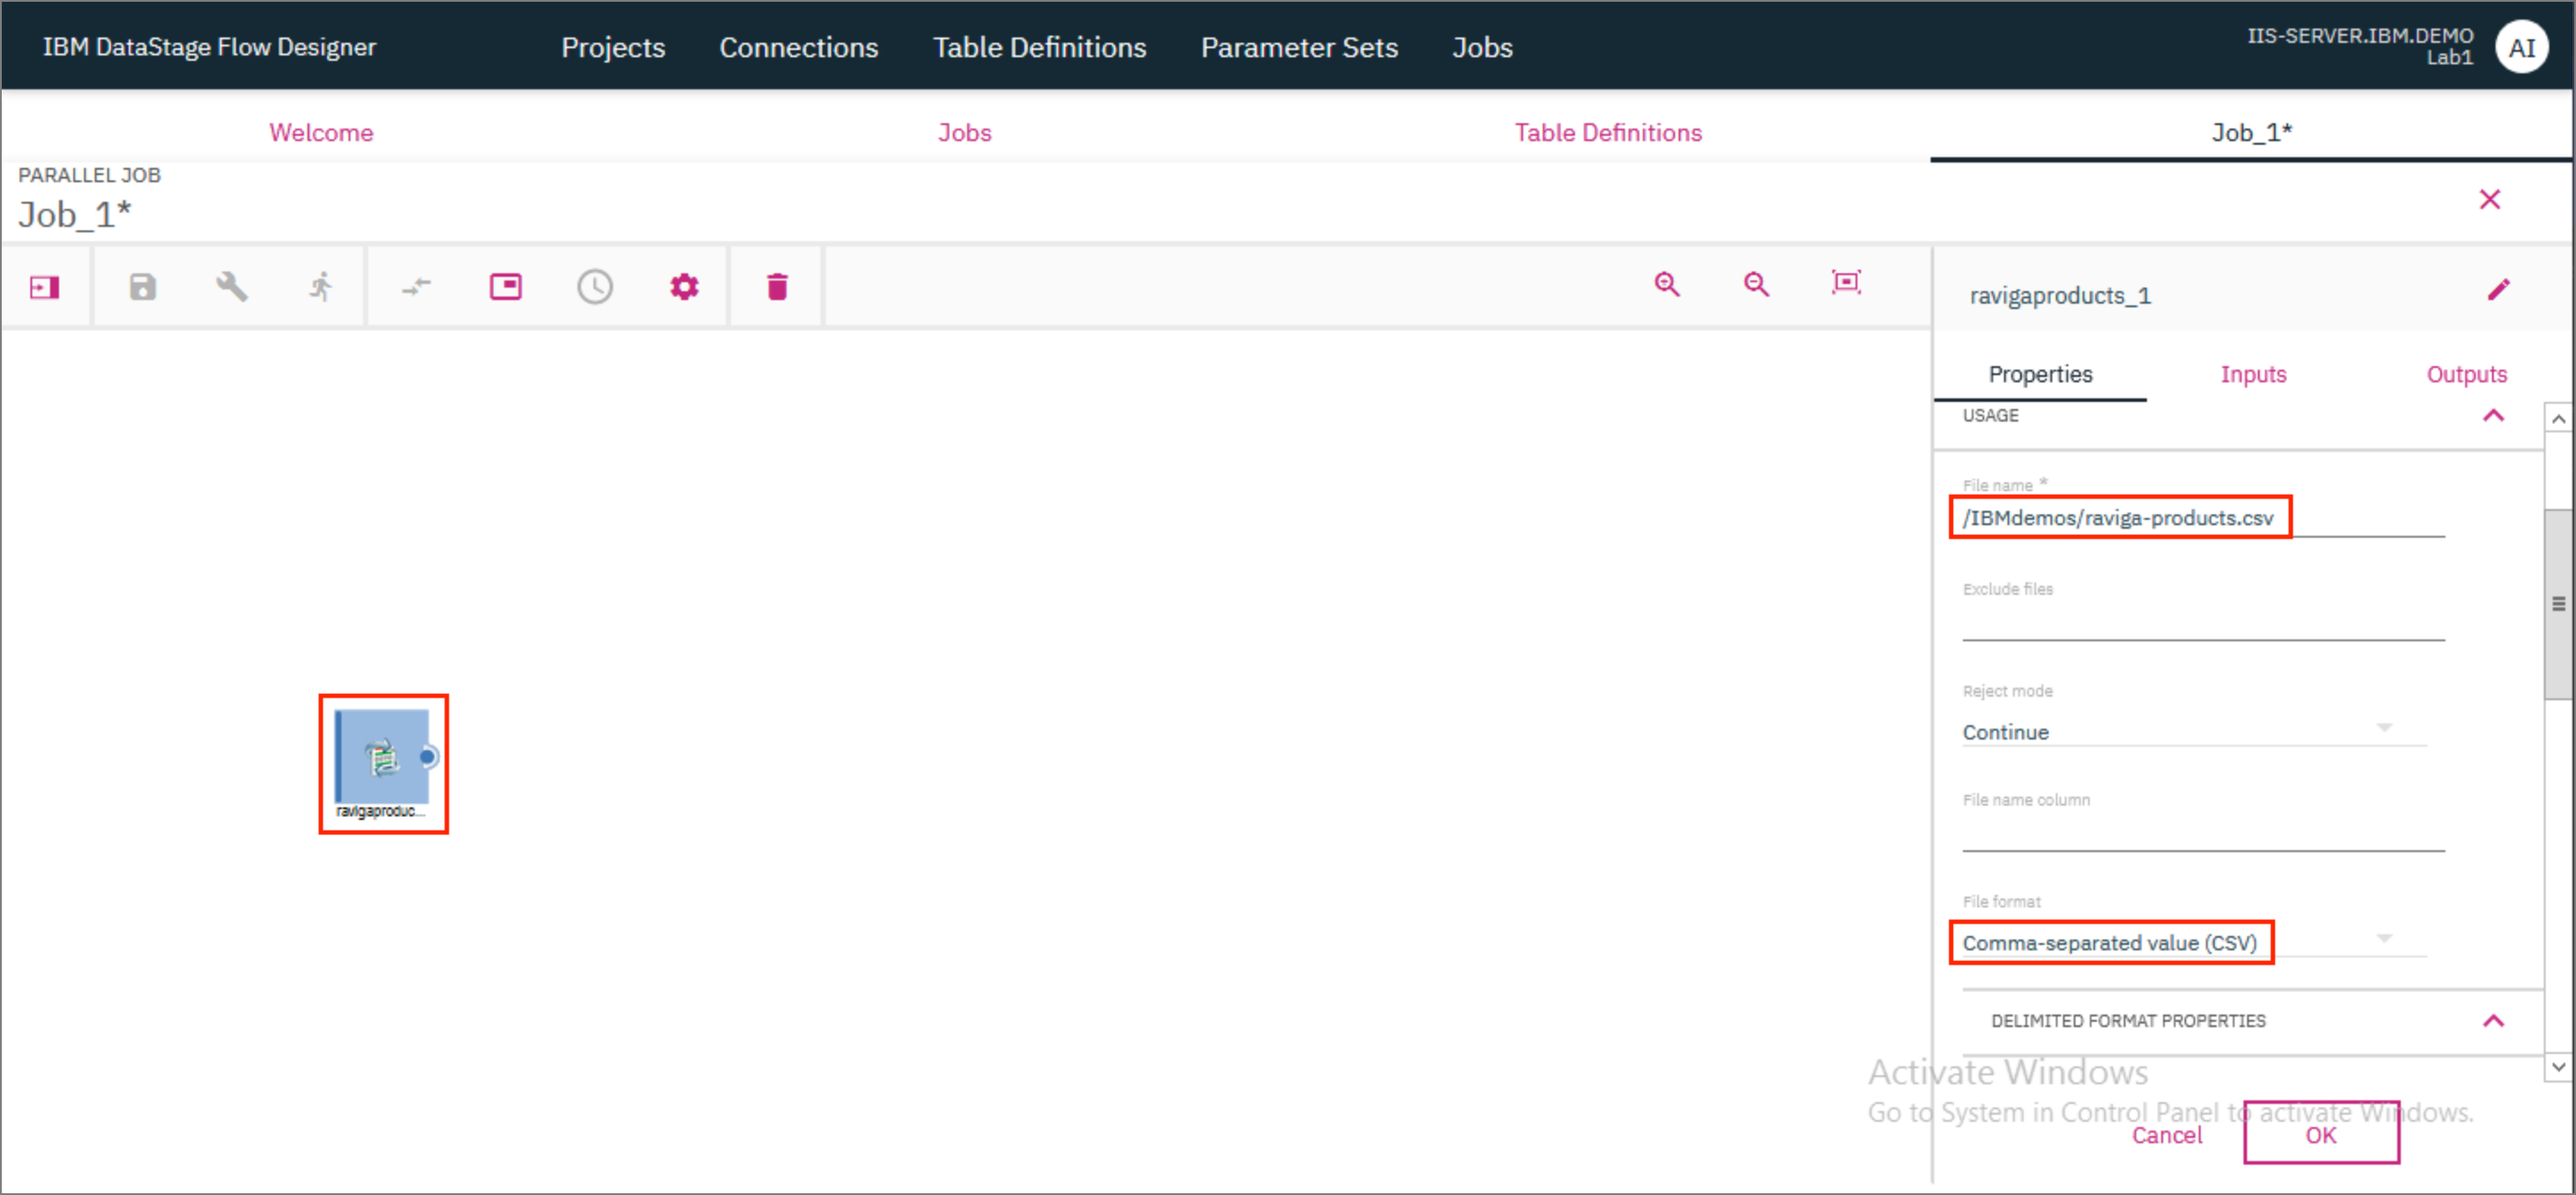
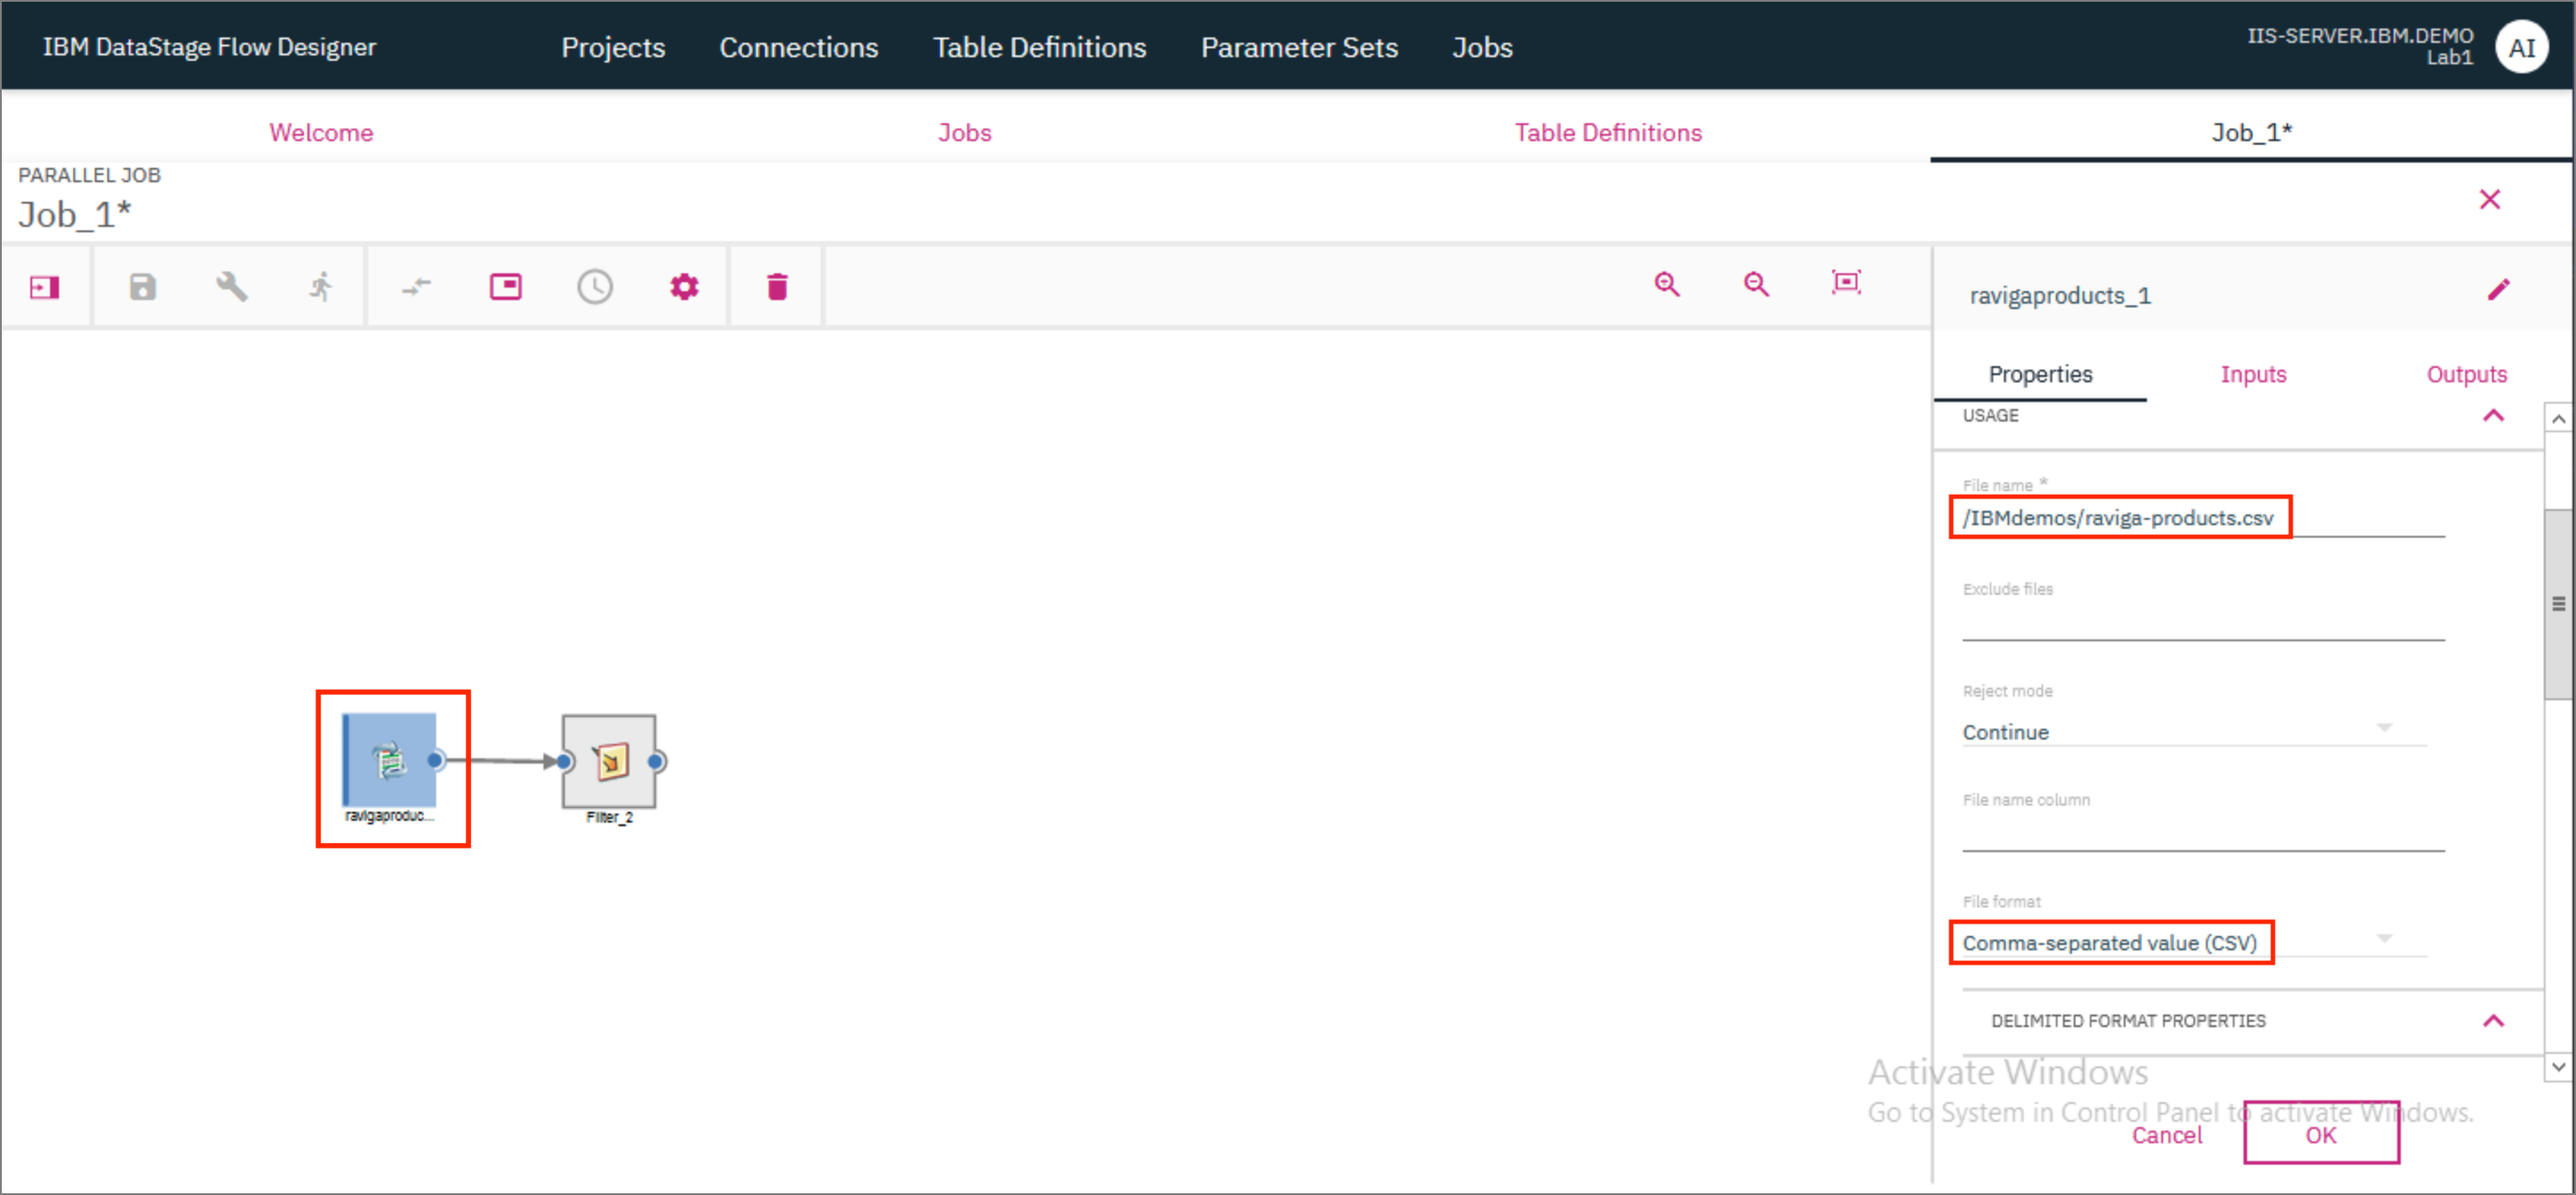
Reorder steps in lab 1

Changed region(s): [[0.1249, 0.5516, 0.2811, 0.7354]]

diff --git a/workshop/lab-1/README.md b/workshop/lab-1/README.md
@@ -21,8 +21,8 @@ This lab is comprised of the following steps:
 1. [Create the job](#3-create-the-job)
 1. [Compile and run the job](#4-compile-and-run-the-job)
 1. [Use Operations Console to view previous logs](#5-use-operations-console-to-view-previous-logs)
-1. [View output](#6-view-output)
-1. [Scheduling the job](#7-scheduling-the-job)
+1. [Scheduling the job](#6-scheduling-the-job)
+1. [View output](#7-view-output)
 
 ## Before you start
 
@@ -120,19 +120,19 @@ Before designing the job, take a few minutes to look at the various buttons and 
 
 ![Add file connector 2](images/add-file-connector-2.png)
 
-* The ***File*** connector should now be visible on the canvas. Double click on the ***File*** connector to open the Connector's Properties page. Provide the *File name* as `/IBMdemos/raviga-products.csv` which is where the source file is located. Further down, provide the *File format* as `Comma-separated value (CSV)`.
+* The ***File*** connector should now be visible on the canvas. Drag and drop a ***Filter*** stage on the canvas. Provide the output of the ***File*** connector as the input to the ***Filter*** stage. To do this, click on the little blue dot on the right side of the ***File*** connector and drag the mouse pointer to the ***Filter*** stage.
+
+**NOTE**: For another method to connect the ***File*** connector to the ***Filter*** stage, click on the ***File*** connector to select it and then drag and drop the ***Filter*** stage. The ***Filter*** stage will automatically be connected to the ***File*** connector.
+
+![Add filter stage](images/add-filter-stage.png)
+
+* Double click on the ***File*** connector to open the Connector's Properties page. Provide the *File name* as `/IBMdemos/raviga-products.csv` which is where the source file is located. Further down, provide the *File format* as `Comma-separated value (CSV)`.
 
 ![Update file connector](images/update-file-connector.png)
 
 * Scroll further down and update the *Null value* to `""`. Click `OK`.
 
 ![Update file connector 2](images/update-file-connector-2.png)
-
-* Drag and drop a ***Filter*** stage on the canvas. Provide the output of the ***File*** connector as the input to the ***Filter*** stage. To do this, click on the little blue dot on the right side of the ***File*** connector and drag the mouse pointer to the ***Filter*** stage.
-
-**NOTE**: For another method to connect the ***File*** connector to the ***Filter*** stage, click on the ***File*** connector to select it and then drag and drop the ***Filter*** stage. The ***Filter*** stage will automatically be connected to the ***File*** connector.
-
-![Add filter stage](images/add-filter-stage.png)
 
 * Double click the ***Filter*** stage to open the Stage's Properties page. Provide the value for *Where Clause* as `Zip IS NOT NULL`. This will filter out all the records in the table where the value of Zip is NULL. Click `OK`.
 
@@ -194,21 +194,7 @@ If the compilation was not successful, you should see a red error icon and the m
 
 ![View job run log](images/view-job-run-log.png)
 
-## 6. View output
-
-* The output file will be saved on the server. Switch to the server VM by clicking the first icon on the `Environment VMs panel` and selecting `iis-server`. Login as the `root` user with the password `inf0Xerver`.
-
-![Switch to server VM](images/switch-to-server-vm.png)
-
-* CD to the location where you had stored the file. If you provided a path starting at "/", then it will be stored at that location in the server. Since we had only provided `output.csv` as the file path in the ***File*** connector, the file will be available in the Transformation project's folder, i.e.,
-
-```ini
-/opt/IBM/InformationServer/Server/Projects/<project-name>/
-```
-
-![CD to project folder](images/cd-to-project-folder.png)
-
-## 7. Scheduling the job
+## 6. Scheduling the job
 
 DataStage Flow Designer provides the ability to run jobs as per a schedule.
 
@@ -221,5 +207,19 @@ Alternatively you can go up one level to the `Jobs` tab, and hover over your job
 ![Schedule job 2](images/schedule-2.png)
 
 **NOTE**: You can only schedule your job once it has been successfully compiled.
+
+## 7. View output
+
+* The output file will be saved on the server. Switch to the server VM by clicking the first icon on the `Environment VMs panel` and selecting `iis-server`. Login as the `root` user with the password `inf0Xerver`.
+
+![Switch to server VM](images/switch-to-server-vm.png)
+
+* CD to the location where you had stored the file. If you provided a path starting at "/", then it will be stored at that location in the server. Since we had only provided `output.csv` as the file path in the ***File*** connector, the file will be available in the Transformation project's folder, i.e.,
+
+```ini
+/opt/IBM/InformationServer/Server/Projects/<project-name>/
+```
+
+![CD to project folder](images/cd-to-project-folder.png)
 
 **CONGRATULATIONS!!** You have completed this lab!
